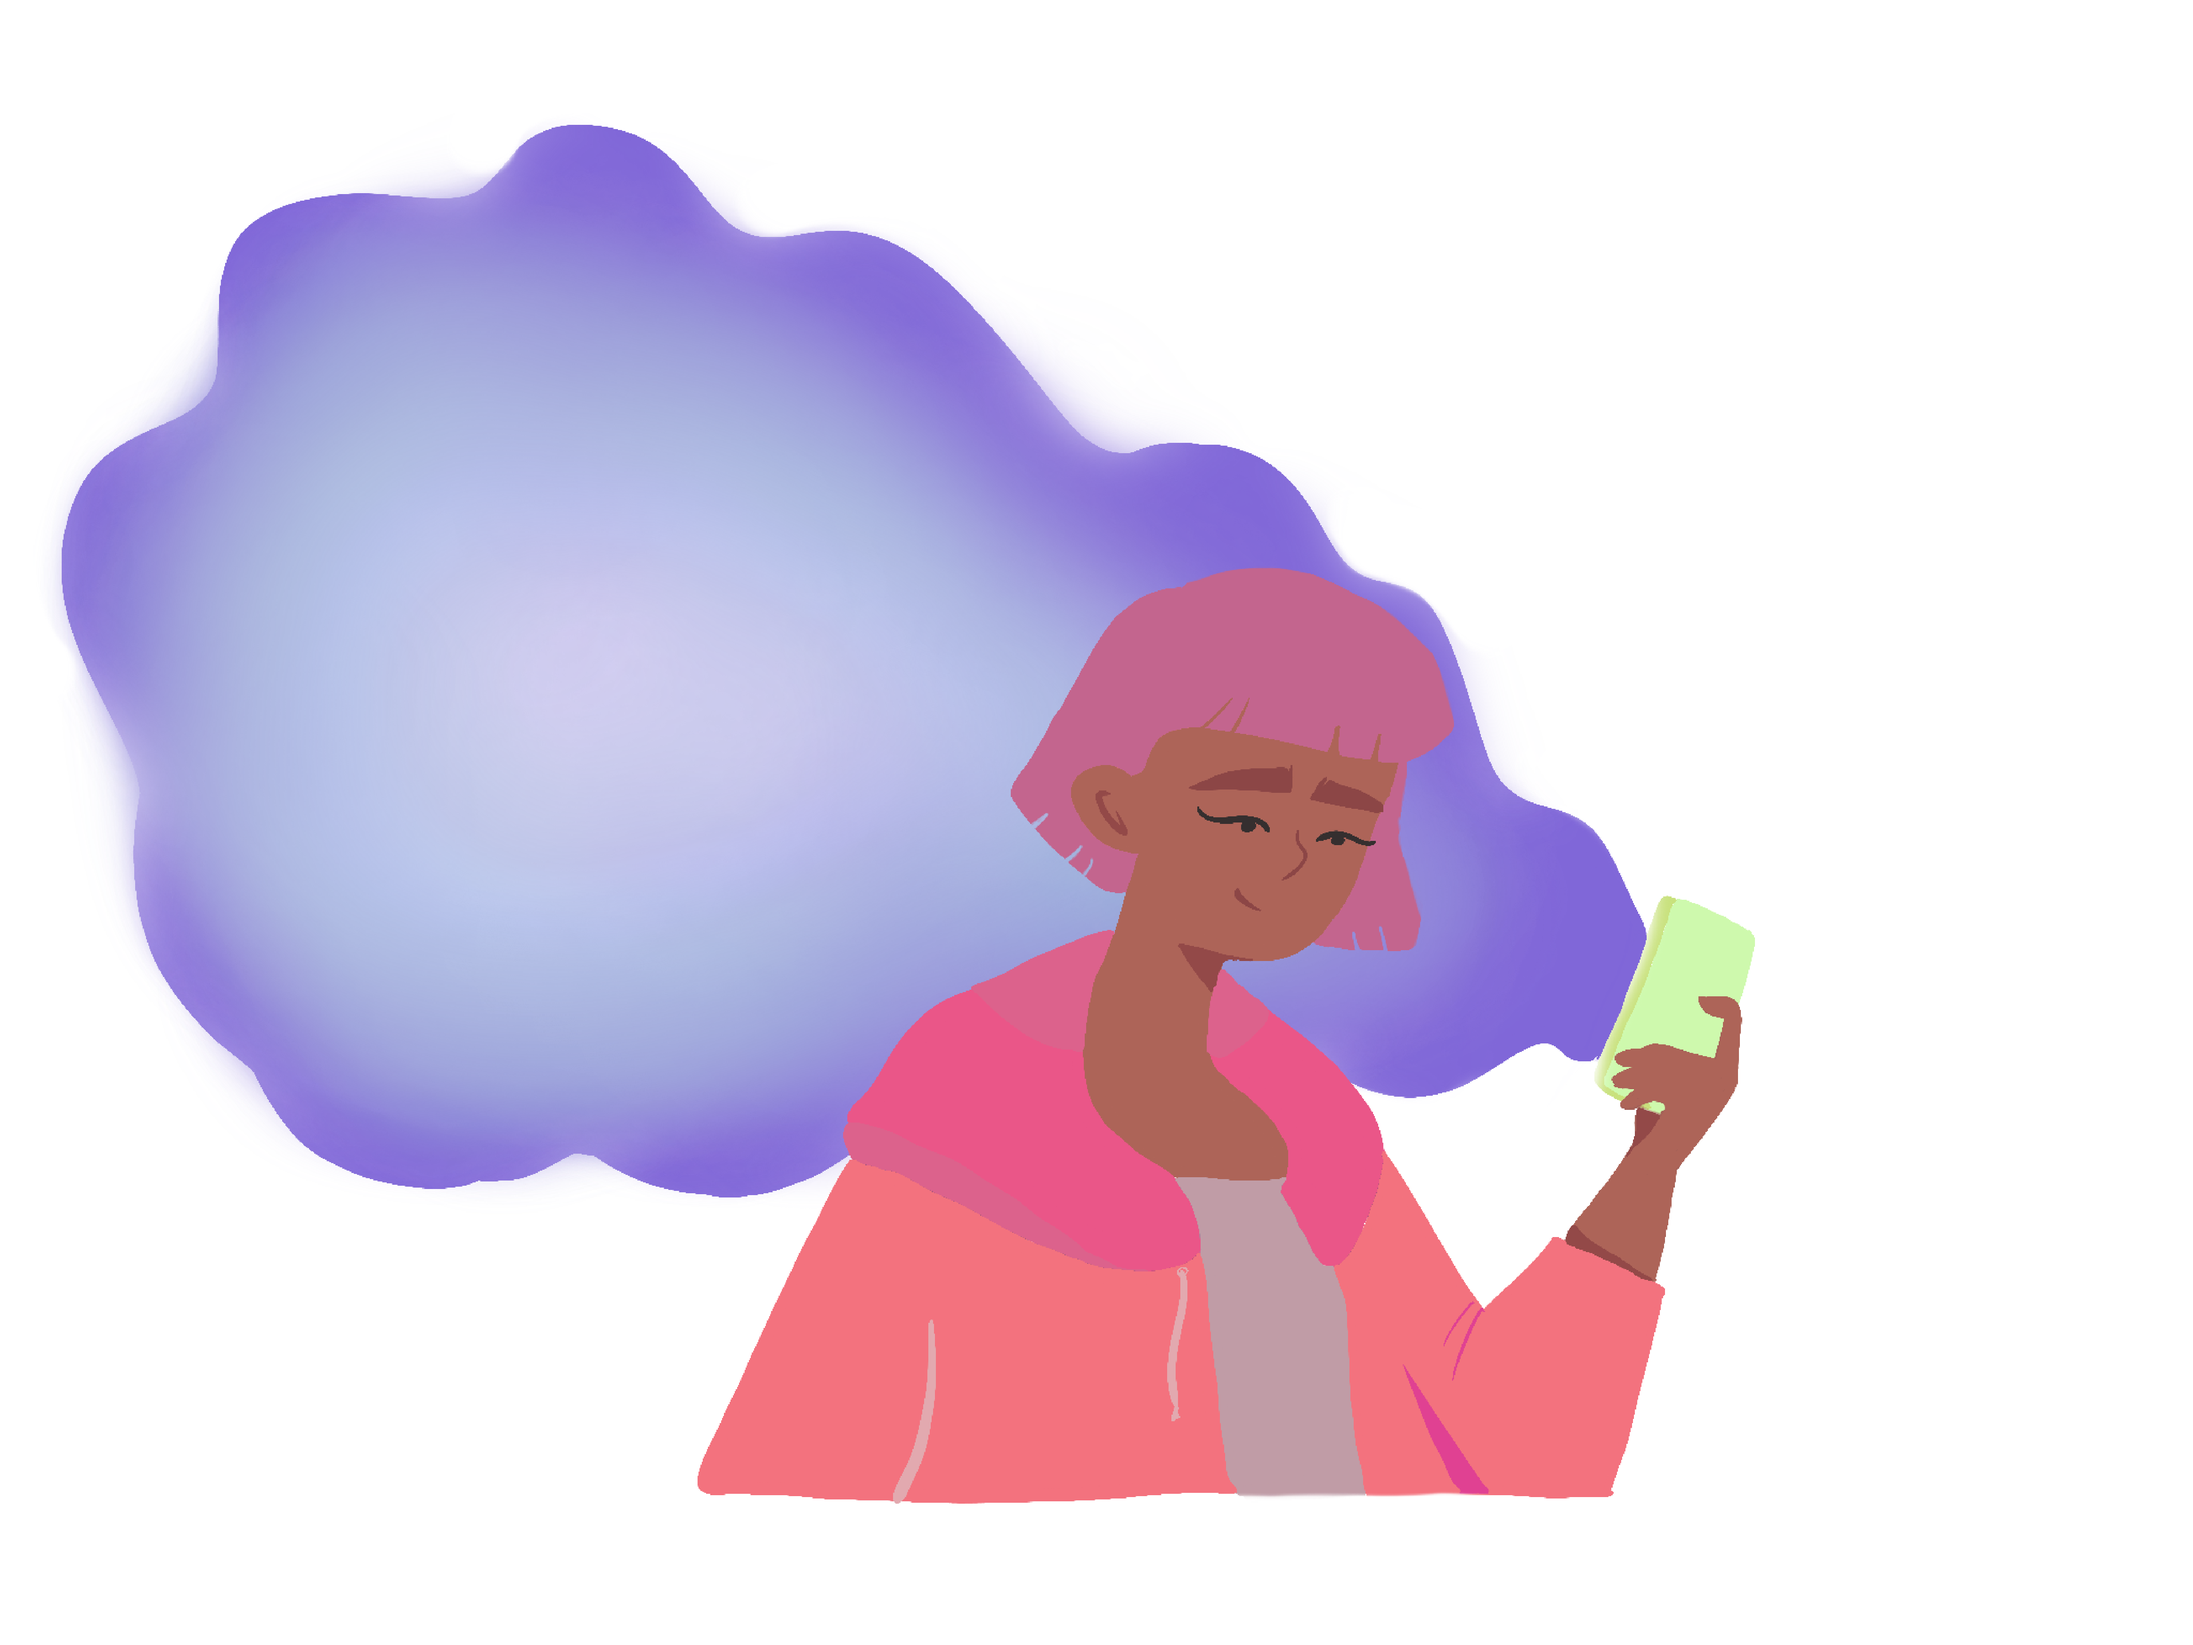
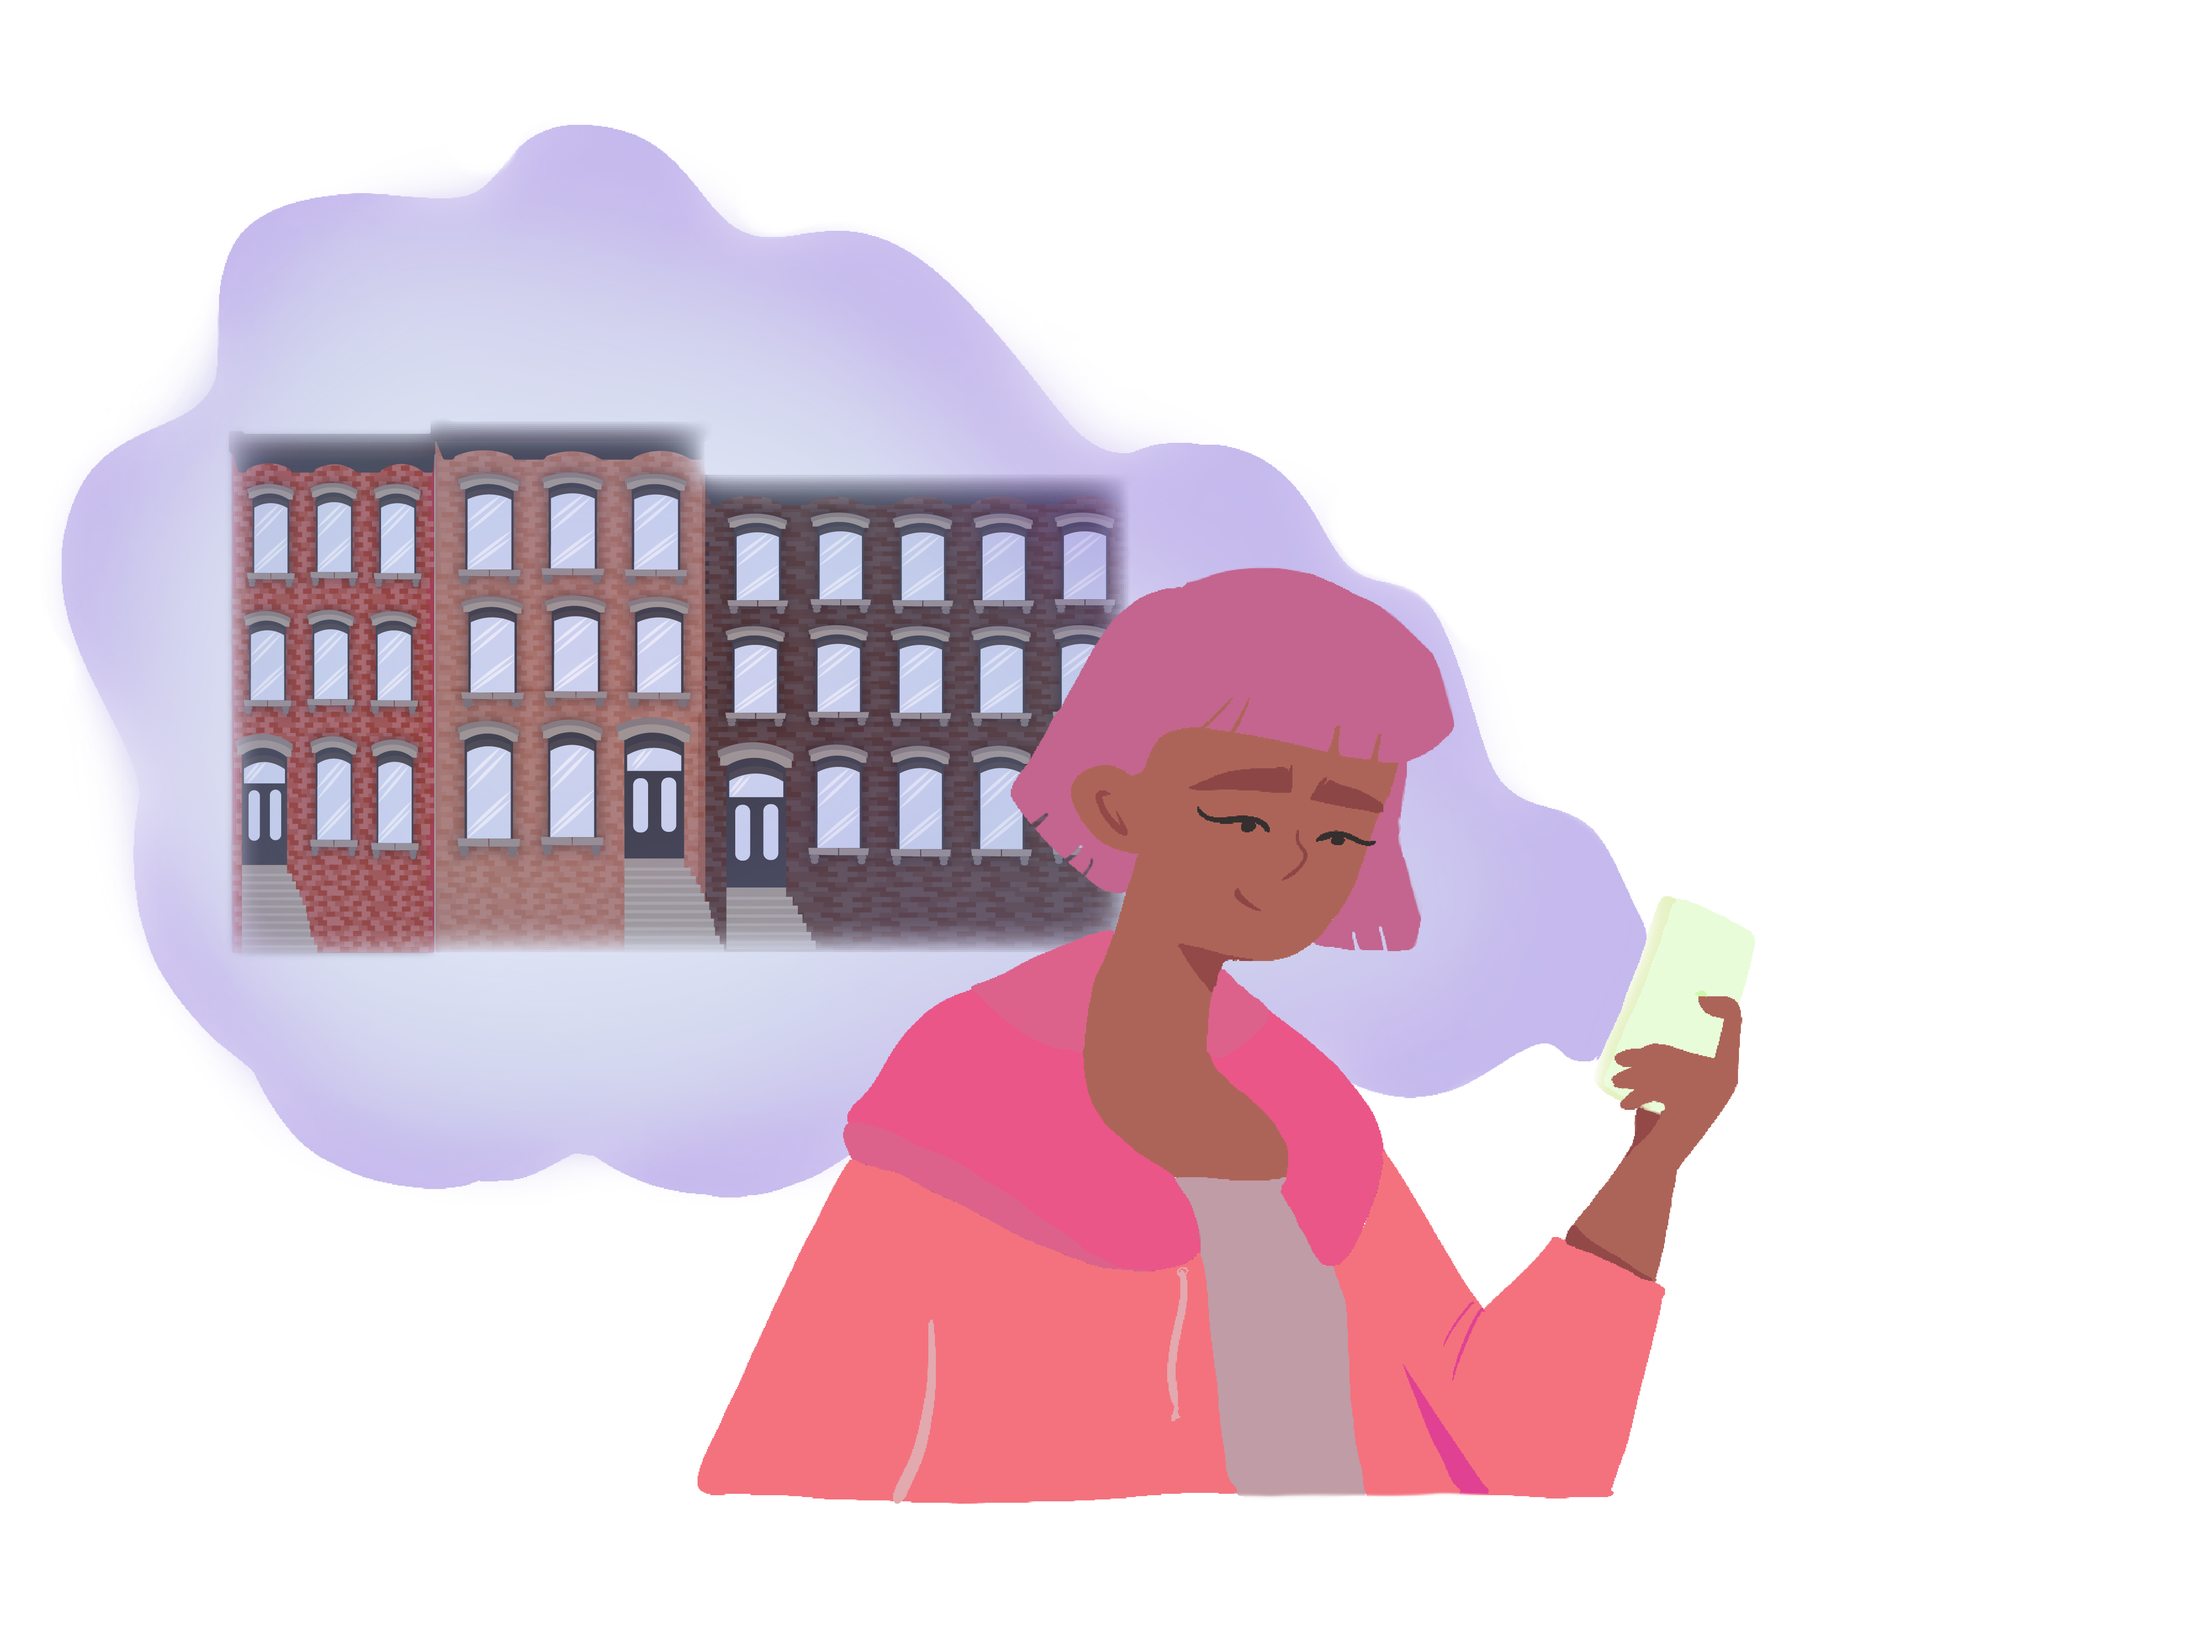
changing of navs and backgrounds on landing and newsfeed

Changed region(s): [[0.0311, 0.0624, 0.8097, 0.7491]]

diff --git a/aptreact/src/pages/Landing.js b/aptreact/src/pages/Landing.js
@@ -1,21 +1,46 @@
-import React from "react";
+import React, { useState } from "react";
 import "../components/Landing/Landing.css";
 import 'bootstrap/dist/css/bootstrap.css';
-import LandingNav from "../components/Navs/LandingNav"
-import HeaderHero from "../components/Images/HeaderHero.png"
 import Footer from "../components/Footer/Footer"
+import { Link } from 'react-router-dom';
+
+// Images
+import HeaderHero from "../components/Images/HeaderHero.png"
+import HeaderBackground from "../components/Images/HeaderBackground.png"
+import Boroughd from "../components/Images/boroughd.png";
+
+// Login Imports
+import SignUpLoginModal from "../components/SignUpLoginModal/SignUpLoginModal";
+import { LoginButton } from "../components/Landing/style";
+
+
+const boroughd = <img src={Boroughd} id="HeaderHero" alt="boroughd"></img>
 
 function Landing () {
+
+    const [show, setShow] = useState(false);
+
     return (
         <div>
-            <LandingNav/>
-            <div className="container" id="Hero">
+            <div className="container" id="Hero" style={{ backgroundImage: `url(${HeaderBackground})`}}>
                 <div className="row">
-                    <div className="col-md-4 my-auto">
+                    <div className="col-2">
+                        <Link to="/">{boroughd}</Link>
+                    </div>
+                    <div className="col-8"></div>
+                    <div className="col-2">
+                        <LoginButton size="lg" onClick={() => setShow(true)}>
+                                    Login
+                            </LoginButton>
+                        <SignUpLoginModal show={show} setShow={setShow} />
+                    </div>
+                </div>
+                <div className="row">
+                    <div className="col-md-5 my-auto" id="HeaderText">
                         <h2>Opening text here</h2>
                         <h3>and the rest of the tag line here</h3>
                     </div>
-                    <div className="col-md-8 text-center my-auto">
+                    <div className="col-md-7 text-center my-auto">
                         <img src={HeaderHero} id="HeaderHero" alt="A skater, a dog walker in heels, and two phone users walking out of a large phone."/>
                     </div>
                 </div>

diff --git a/aptreact/src/pages/Newsfeed.js b/aptreact/src/pages/Newsfeed.js
@@ -1,21 +1,50 @@
-import React from "react";
+import React, { useState } from "react";
 import "../components/Newsfeed/Newsfeed.css";
 import "bootstrap/dist/css/bootstrap.css";
+import Row from "react-bootstrap/Row";
+import Col from "react-bootstrap/Col";
+import "../../src/index.css";
+import { Link } from 'react-router-dom';
+
+
 import FeedNav from "../components/Navs/FeedNav";
+
+// Components
 import Main from "../components/Newsfeed/Main";
 import SideNav from "../components/Navs/SideNav";
 import ProfileNav from "../components/Navs/ProfileNav"
 import Container from "react-bootstrap/Container";
-import Row from "react-bootstrap/Row";
-import Col from "react-bootstrap/Col";
-import "../../src/index.css";
 import Footer from "../components/Footer/Footer";
 
+//Images
+import HeaderBackground from "../components/Images/HeaderBackground.png";
+import Boroughd from "../components/Images/boroughd.png";
+
+// Login Imports
+import SignUpLoginModal from "../components/SignUpLoginModal/SignUpLoginModal";
+import { LoginButton } from "../components/Landing/style";
+
+
+const boroughd = <img src={Boroughd} id="HeaderHero" alt="boroughd"></img>
 
 function Newsfeed() {
+
+    const [show, setShow] = useState(false);
+
     return (
-            <Container className="newsfeed" fluid style={{ paddingLeft: 0, paddingRight: 0 }}>
-                <FeedNav fluid style={{ paddingLeft: 0, paddingRight: 0 }}/>
+            <Container className="newsfeed" fluid style={{ paddingLeft: 0, paddingRight: 0 }} id="Hero" style={{ backgroundImage: `url(${HeaderBackground})`}}>
+                <div className="row">
+                    <div className="col-2">
+                        <Link to="/">{boroughd}</Link>
+                    </div>
+                    <div className="col-8"></div>
+                    <div className="col-2">
+                        <LoginButton size="lg" onClick={() => setShow(true)}>
+                                    Login
+                            </LoginButton>
+                        <SignUpLoginModal show={show} setShow={setShow} />
+                    </div>
+                </div>
                 <Row>
                     <Col xs={2}><SideNav /></Col>
                     <Col xs={7}><Main /></Col>

diff --git a/aptreact/src/components/Navs/FeedNav.js b/aptreact/src/components/Navs/FeedNav.js
@@ -22,10 +22,10 @@ function FeedNav() {
                     <div className="col-7"></div>
                     <div className="col-3" >
                         <LoginButton size="lg" onClick={() => setShow(true)}>
-                            Login
+                            Logout
                         </LoginButton>
-                        <SignUpLoginModal show={show} setShow={setShow} />
-                        <a href="/">Logout</a>
+                        {/* <SignUpLoginModal show={show} setShow={setShow} />
+                        <a href="/">Logout</a> */}
                     </div>
                 </div>
             </nav>

diff --git a/aptreact/src/pages/Saved.js b/aptreact/src/pages/Saved.js
@@ -22,11 +22,11 @@ function Saved() {
                     <Col xs={7}> <div className="main">
                 <div className="main_videos">
 
-                    {
+                    {/* {
                         userSearch.results.map(({ url }) => (
                             <Video url={url} />
                         ))
-                    }
+                    } */}
                 </div>
             </div>
                      

diff --git a/aptreact/src/components/Landing/style.js b/aptreact/src/components/Landing/style.js
@@ -29,7 +29,7 @@ export const LoginButton = styled(Button)`
     box-shadow: 0 24px 38px 3px #f7f7f72e, 0 9px 46px 8px #ffffff2b, 0 11px 15px -7px #ffffff45;
     border-color: white;
     &:hover {
-        background: #1b791e;
+        background: #67A3BB;
         border-color: white;
         -webkit-box-shadow: 0 24px 38px 3px rgba(0, 0, 0, 0.14), 0 9px 46px 8px rgba(0, 0, 0, 0.12),
             0 11px 15px -7px rgba(0, 0, 0, 0.2);

diff --git a/aptreact/src/components/Landing/Landing.css b/aptreact/src/components/Landing/Landing.css
@@ -16,3 +16,19 @@ h3 {
 #HeaderHero {
     max-width: 100%;
 }
+
+#Hero {
+    padding-top: 3%;
+    max-width: 100%;
+    height: 100vh;
+    background-position: center;
+    background-repeat: no-repeat;
+    background-size: cover;
+}
+
+#HeaderText {
+    text-align: right;
+    color: aliceblue;
+    letter-spacing: 3px !important;
+    font-family: sans-serif;
+}

diff --git a/aptreact/src/components/Newsfeed/VideoSidebar.js b/aptreact/src/components/Newsfeed/VideoSidebar.js
@@ -27,7 +27,7 @@ function VideoSidebar({ likes, shares, messages, saved }) {
       </div>
       
       <div className="videoSidebar_button">
-        <SaveIcon fontSize="large" onClick={} />
+        {/* <SaveIcon fontSize="large" onClick={} /> */}
         <p>{saved}</p>
       </div>
 

diff --git a/aptreact/src/components/Newsfeed/Newsfeed.css b/aptreact/src/components/Newsfeed/Newsfeed.css
@@ -63,3 +63,12 @@ h3 {
     /* place-items: left;  */
     /* color: white; */
 }
+
+#Hero {
+    padding-top: 3%;
+    max-width: 100%;
+    height: 100vh;
+    background-position: center;
+    background-repeat: no-repeat;
+    background-size: cover;
+}
